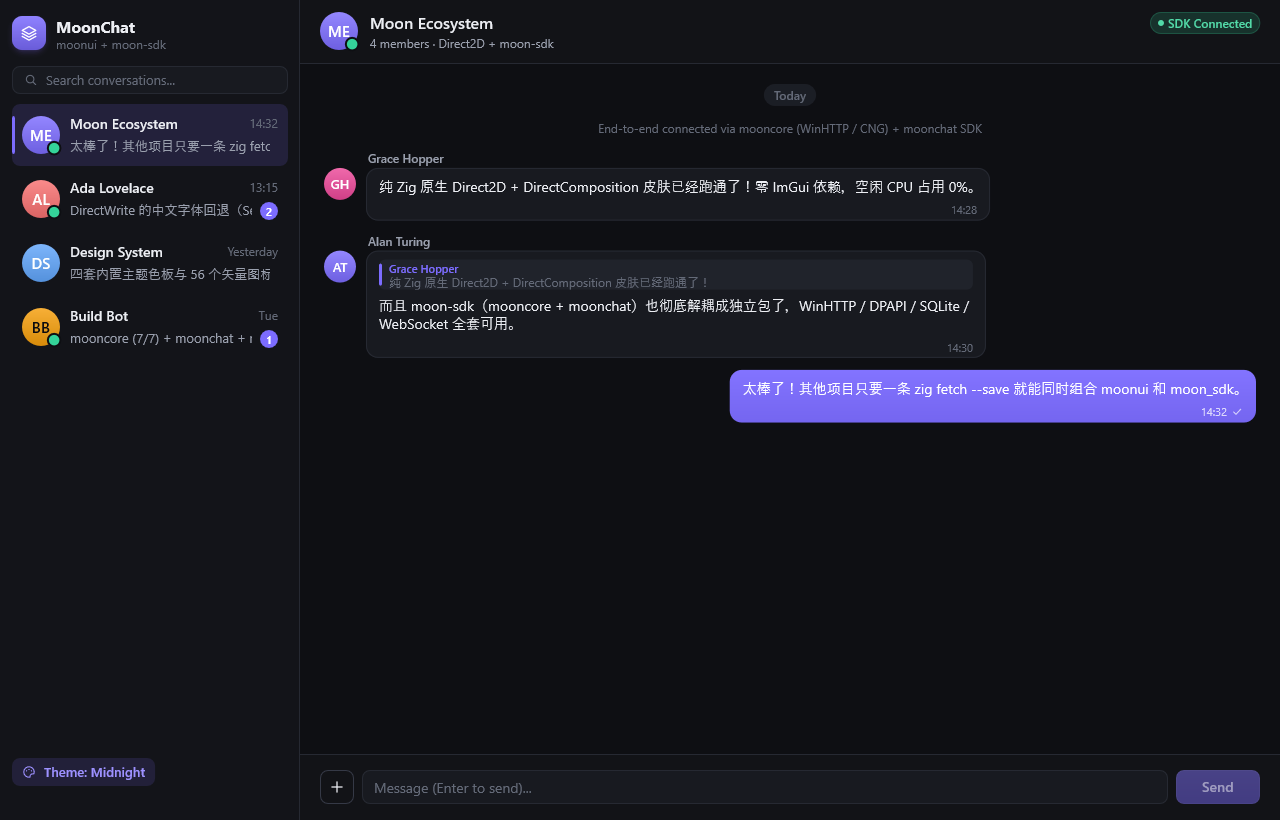
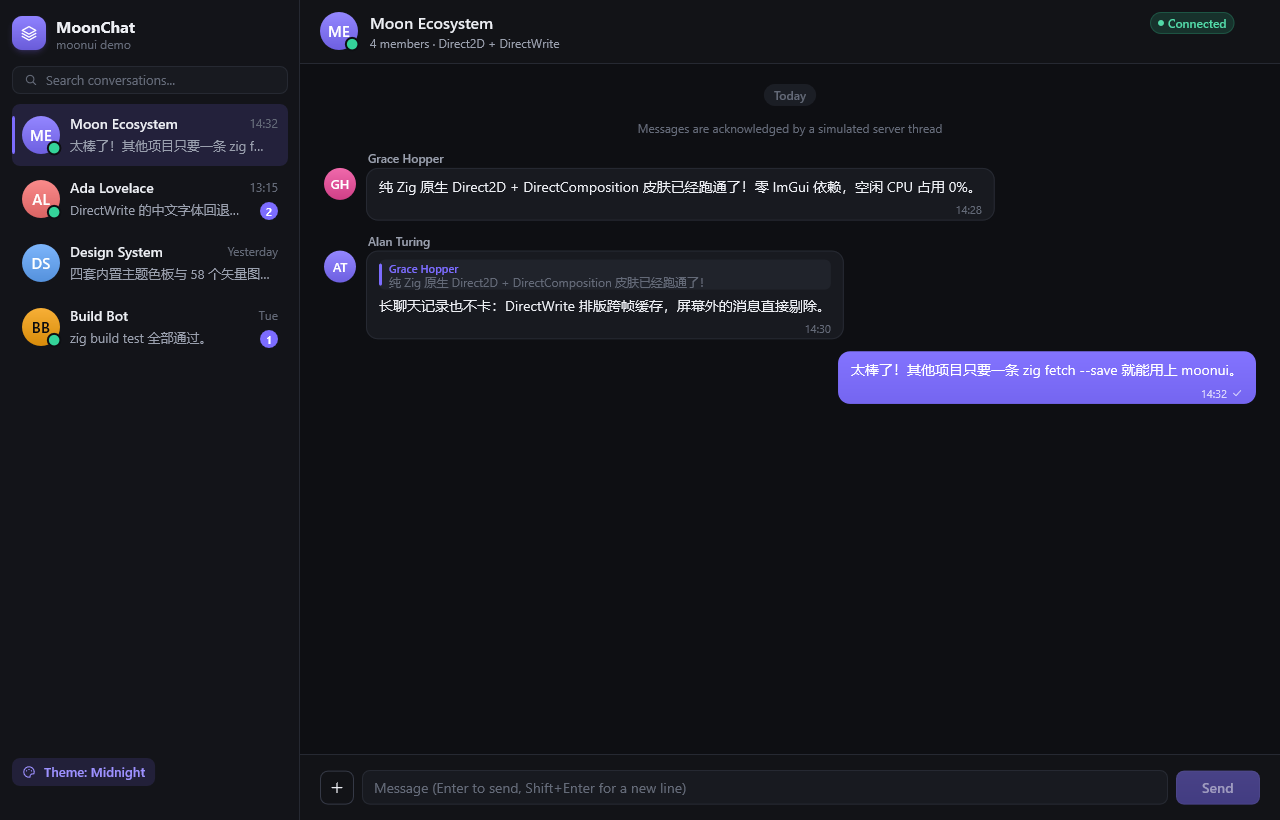
开源准备：MIT 协议、面向公众的 README、去掉 moon-sdk 依赖
- 新增 MIT LICENSE
- README 改写为公开版本（截图、安装、示例、功能清单）
- chat 示例改用 std.Thread + ui.wake 模拟服务器回执，不再依赖未公开的 moon-sdk
- build.zig.zon 删除 ../moon-sdk 路径依赖，全新克隆即可构建
- 重新生成 chat 截图

diff --git a/README.md b/README.md
@@ -1,19 +1,46 @@
-# MoonUI (`moon-win32-modern`)
+# MoonUI
 
-Part of the **Moon Zig Ecosystem**:
-- **`moonui`** (`C:\moon-dev\moon-win32-modern`): 100% pure Zig 0.17.1 native Windows UI component library (**Win32 + Direct3D 11 + DXGI + DirectComposition + Direct2D 1.1 + DirectWrite**), zero Dear ImGui, zero C/C++ dependencies.
-- **`moon-sdk`** (`C:\moon-dev\moon-sdk`): Independent, UI-agnostic Windows platform & IM SDK exporting **`mooncore`** (WinHTTP HTTPS/WS, DPAPI, SQLite/KV, CNG crypto, OS thread pool & dispatcher) and **`moonchat`** (typed LumenIM client).
+An immediate-mode native Windows UI library written in pure Zig.
+It renders through Win32, Direct3D 11, DXGI, DirectComposition, Direct2D 1.1 and DirectWrite.
+There is no Dear ImGui and no C or C++ code. When nothing is animating, the loop sleeps in `MsgWaitForMultipleObjectsEx` and uses about 0% CPU.
 
-## Install in Another Project
+![Overview page of the component gallery](docs/screenshots/overview-midnight.png)
 
-### Option A: Add to an existing Zig project
+| | |
+| --- | --- |
+| ![Components, Daylight theme](docs/screenshots/components-daylight.png) | ![Forms, Ember theme](docs/screenshots/forms-ember.png) |
+| ![Theming, Aurora theme](docs/screenshots/theming-aurora.png) | ![Chat demo](docs/screenshots/chat-midnight.png) |
+
+## Requirements
+
+- Windows 10 or 11
+- Zig **0.17.1**
+
+## Quick start
 
 ```powershell
-# Install MoonUI (local path or git+https://...)
-zig fetch --save=moonui C:\moon-dev\moon-win32-modern
+git clone https://github.com/HinaKalo/moonui
+cd moonui
+zig build run                                   # five-page component gallery
+zig build run -- --page components --theme 1    # pages: overview components forms theming performance, themes 0..3
+zig build chat                                  # IM demo
+zig build test
+```
 
-# Optional: also install Moon SDK (mooncore + moonchat)
-zig fetch --save=moon_sdk C:\moon-dev\moon-sdk
+### Start a new app
+
+```powershell
+zig build new -- ..\my-app --name my-app
+cd ..\my-app
+zig build run
+```
+
+The generated project depends on this checkout through a relative path, so it builds offline.
+
+### Add to an existing project
+
+```powershell
+zig fetch --save=moonui git+https://github.com/HinaKalo/moonui
 ```
 
 ```zig
@@ -22,31 +49,48 @@ const moonui = b.dependency("moonui", .{ .target = target, .optimize = optimize 
 exe.root_module.addImport("moonui", moonui.module("moonui"));
 ```
 
-### Option B: Scaffold a ready-to-run app
+The module links the Windows system libraries it needs.
 
-```powershell
-cd C:\moon-dev\moon-win32-modern
-zig build new -- ..\my-app --name my-app
-cd ..\my-app
-zig build run
+## Example
+
+```zig
+const ui = @import("moonui");
+
+const State = struct { count: u32 = 0, dark: bool = true };
+
+pub fn main() !void {
+    var state: State = .{};
+    try ui.run(.{ .title = "Counter", .width = 960, .height = 640 }, &state, frame);
+}
+
+fn frame(s: *State) void {
+    ui.beginMain(.{ .max_width = 720 });
+    defer ui.endMain();
+
+    ui.pageHeader("Counter", null);
+    ui.beginCard("card", .{});
+    if (ui.button("Click me", .{ .variant = .primary, .icon = .sparkles })) s.count += 1;
+    ui.text(ui.fmt("Clicked {d} times", .{s.count}), .{ .ink = .muted });
+    if (ui.toggle("Dark mode", &s.dark))
+        ui.setTheme(if (s.dark) ui.themes.midnight else ui.themes.daylight);
+    _ = ui.endCard();
+}
 ```
 
-## Repository Commands
+`frame` runs once per rendered frame. Widgets draw immediately and return what happened: `button` returns true on the click frame, `toggle` returns true when the value changed. Your state lives in your own struct.
 
-```powershell
-zig build test                                  # Unit tests
-zig build run                                   # 5-page Component Gallery
-zig build run -- --page components --theme 1    # Specific page & theme (0..3)
-zig build chat                                  # Native Direct2D IM demo (moonui + mooncore + moonchat)
-zig build new -- ..\my-app --name my-app        # Scaffold a new app
-```
+## What's included
 
-## Building blocks for real apps
+- **Layout**: sidebar with navigation, scrolling main area, cards, equal-width grids, rows, groups, independent scroll areas with stick-to-bottom.
+- **Controls**: buttons (six variants, three sizes, icons, loading), icon buttons, toggles, checkboxes, radio groups, sliders, segmented controls, tabs, selects, single-line and growing multi-line text editors, badges, avatars, progress bars, spinners, sparklines, stats, tooltips, menus and context menus, modal dialogs, in-app toasts.
+- **Text**: DirectWrite layouts cached across frames, CJK fallback (`font_locale = "zh-cn"` selects Microsoft YaHei), ellipsis truncation, IME candidate window that follows the caret, selection and clipboard shortcuts.
+- **Themes**: four presets (Midnight, Daylight, Ember, Aurora); accent, corner radius and motion can be changed at runtime.
+- **Icons**: 58 vector icons drawn with Direct2D.
+- **Chat widgets**: conversation rows, grouped message bubbles with quotes and delivery status, composer, time dividers.
+- **Images**: WIC decode (EXIF-aware, scaled to fit) and encode, Direct2D bitmaps, files dropped from Explorer, clipboard images.
+- **Desktop shell**: single instance with argument forwarding, notification-area icon with a menu, taskbar flashing and overlay badges, URL protocol registration, Windows toast notifications for unpackaged apps through WinRT.
+- **Testing**: `AppOptions.capture_path` renders headless and writes a BMP; set `MOONUI_TRACE=<file>` to log input events (text content is never written).
 
-- **Text**: DirectWrite layouts are cached across frames (long chat timelines stay cheap); `AppOptions.font_family` / `font_locale` pick the UI font and fallback (`"zh-cn"` → Microsoft YaHei for Han text). No length limit on drawn text.
-- **Scroll areas**: `beginScroll(id, rect, .{ .stick_to_bottom = true })` / `endScroll()`, with `scrollToBottom(id)` and `keepScrollFromBottom(id)` (call before prepending older items). Off-screen chat rows are culled.
-- **Text editing**: `textField` supports selection (mouse drag, double-click, Shift+arrows), Ctrl+A/C/X/V, word jumps and horizontal scrolling; `textArea` is a growing multi-line editor (Enter submits, Shift+Enter breaks). The IME candidate window follows the caret.
-- **Menus**: `openMenuAt(id, rect)` for context menus at the cursor (clamped to the window); `chat.message` returns click / right-click / double-click events.
-- **Window helpers**: `activate`, `hide`, `isVisible`, `flash` / `stopFlash` (taskbar button flashes until the window is in front), `setOverlay` (taskbar badge icon), `isForeground`, `setTitle`, `AppOptions.icon_resource`, `AppOptions.on_close`; `clipboard.getText` / `setText` / `openUrl`.
-- **Desktop shell** (`shell`): `acquireInstance` / `forwardToFirst` (single instance; a second launch hands its argument to the first over WM_COPYDATA), `createHost` (hidden window: forwarded launches, tray callbacks, `postActivation` from any thread, `wakeAfter` timers), `trayShow` / `trayRemove` (notification-area icon with a context menu, restored after Explorer restarts), `loadIcon` / `badgedIcon` (red unread dot) / `countIcon` (number badge for `setOverlay`), `registerProtocol` (per-user URL scheme).
-- **Toasts** (`notification`): Windows toast notifications for an unpackaged exe through WinRT, no .NET or C++: `registerApp` (AppUserModelID with name and icon), `show` (title, body, tag / group, click → protocol launch or in-process `postActivation`), `remove` / `clear` (Action Center).
+## License
+
+[MIT](LICENSE)
